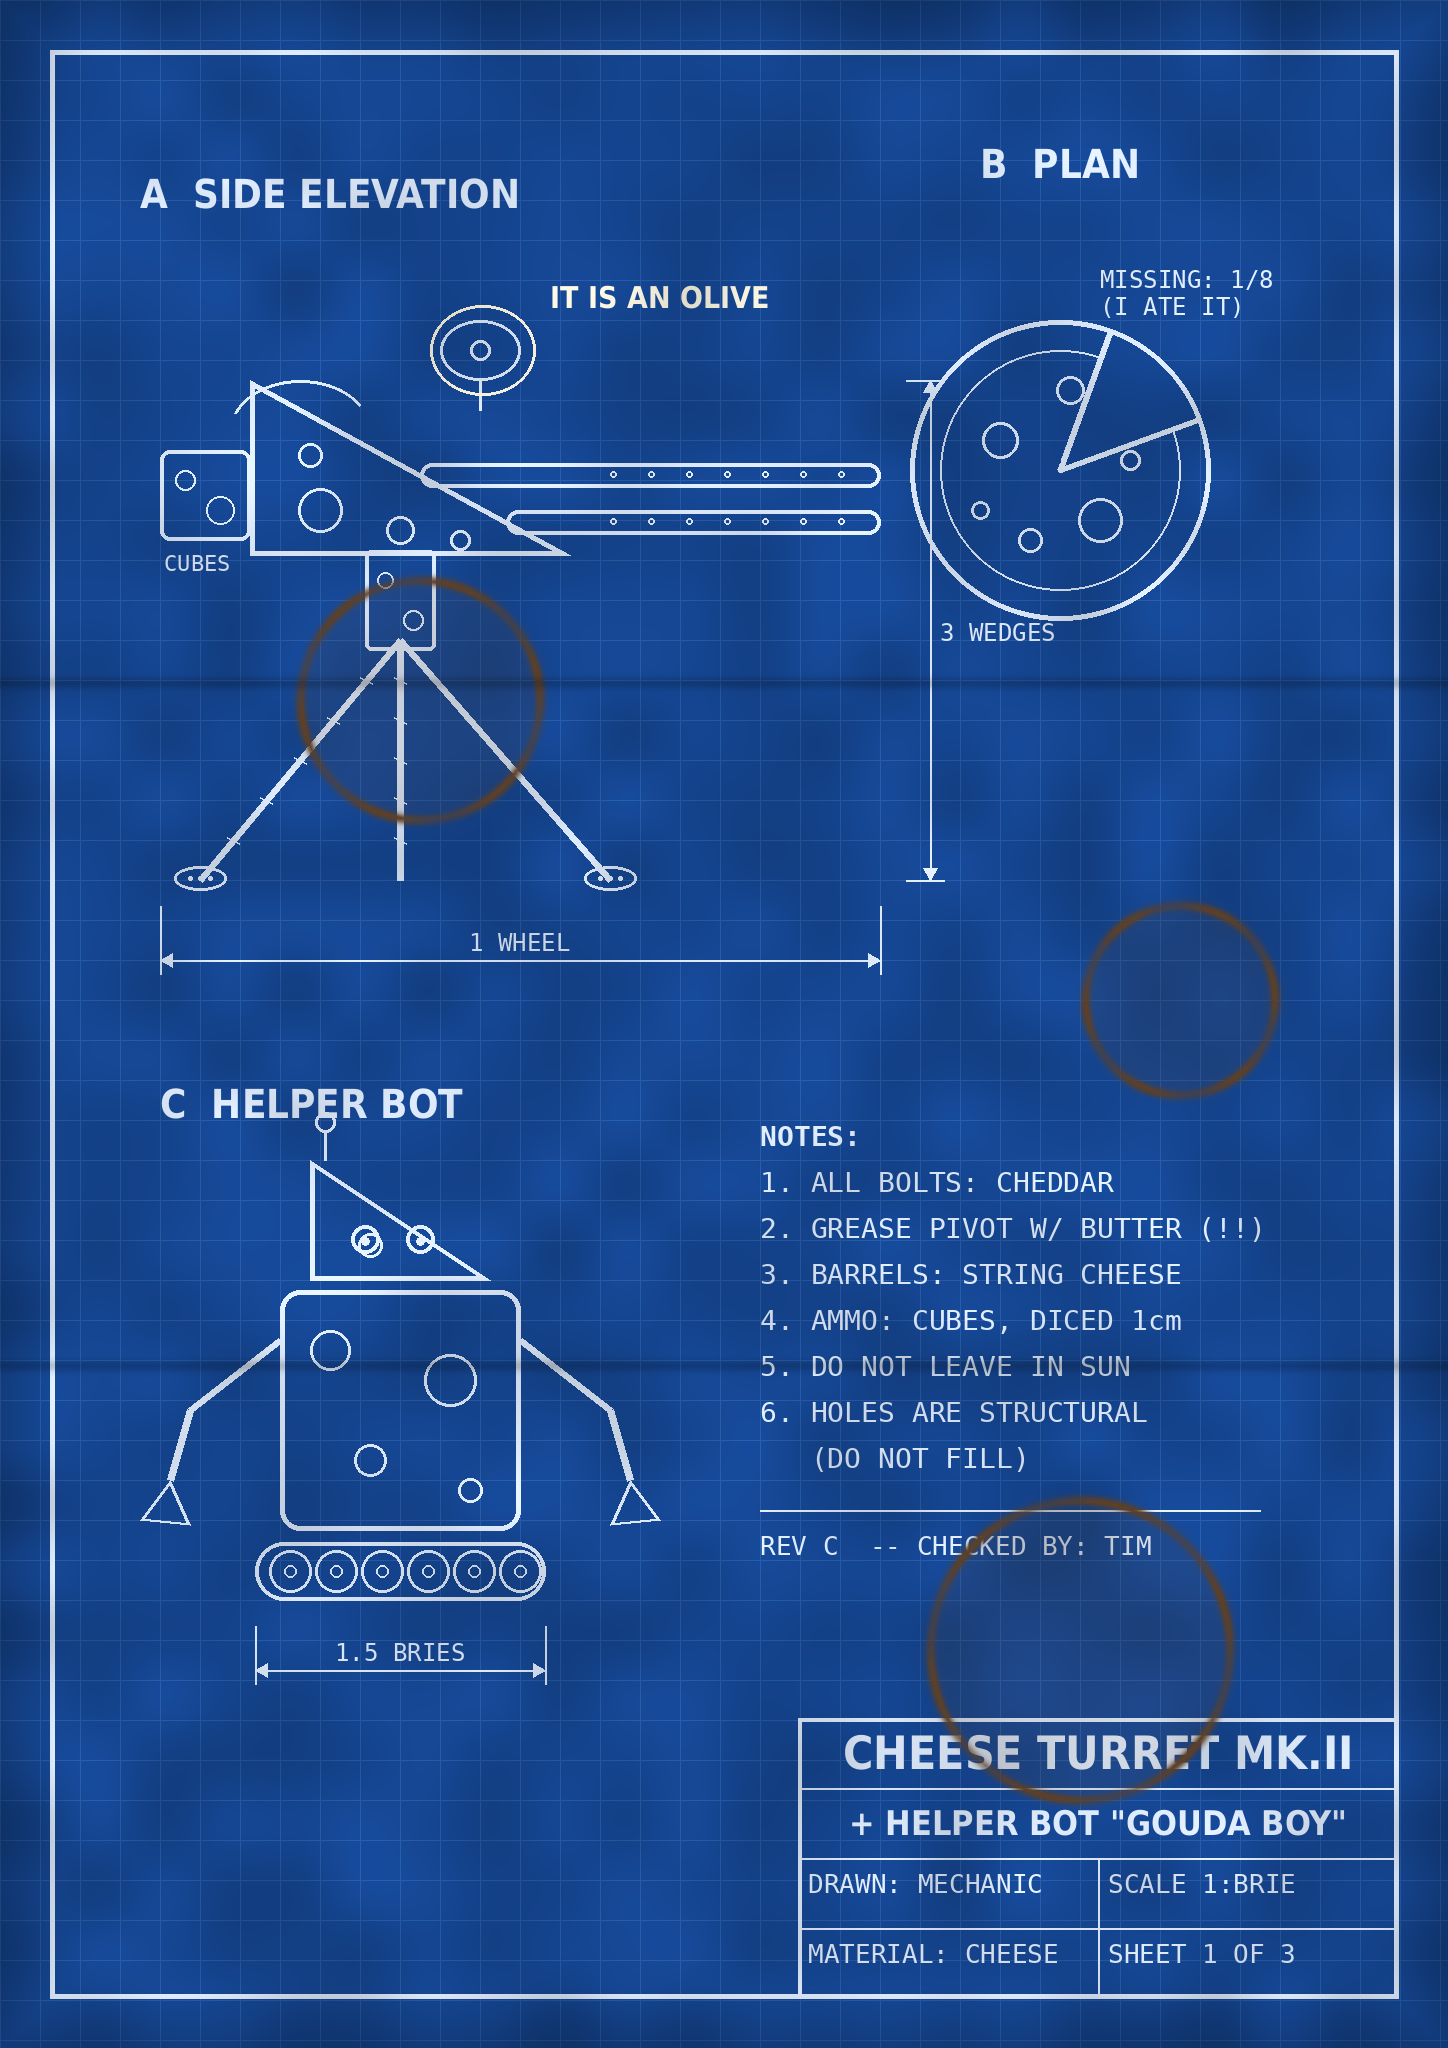
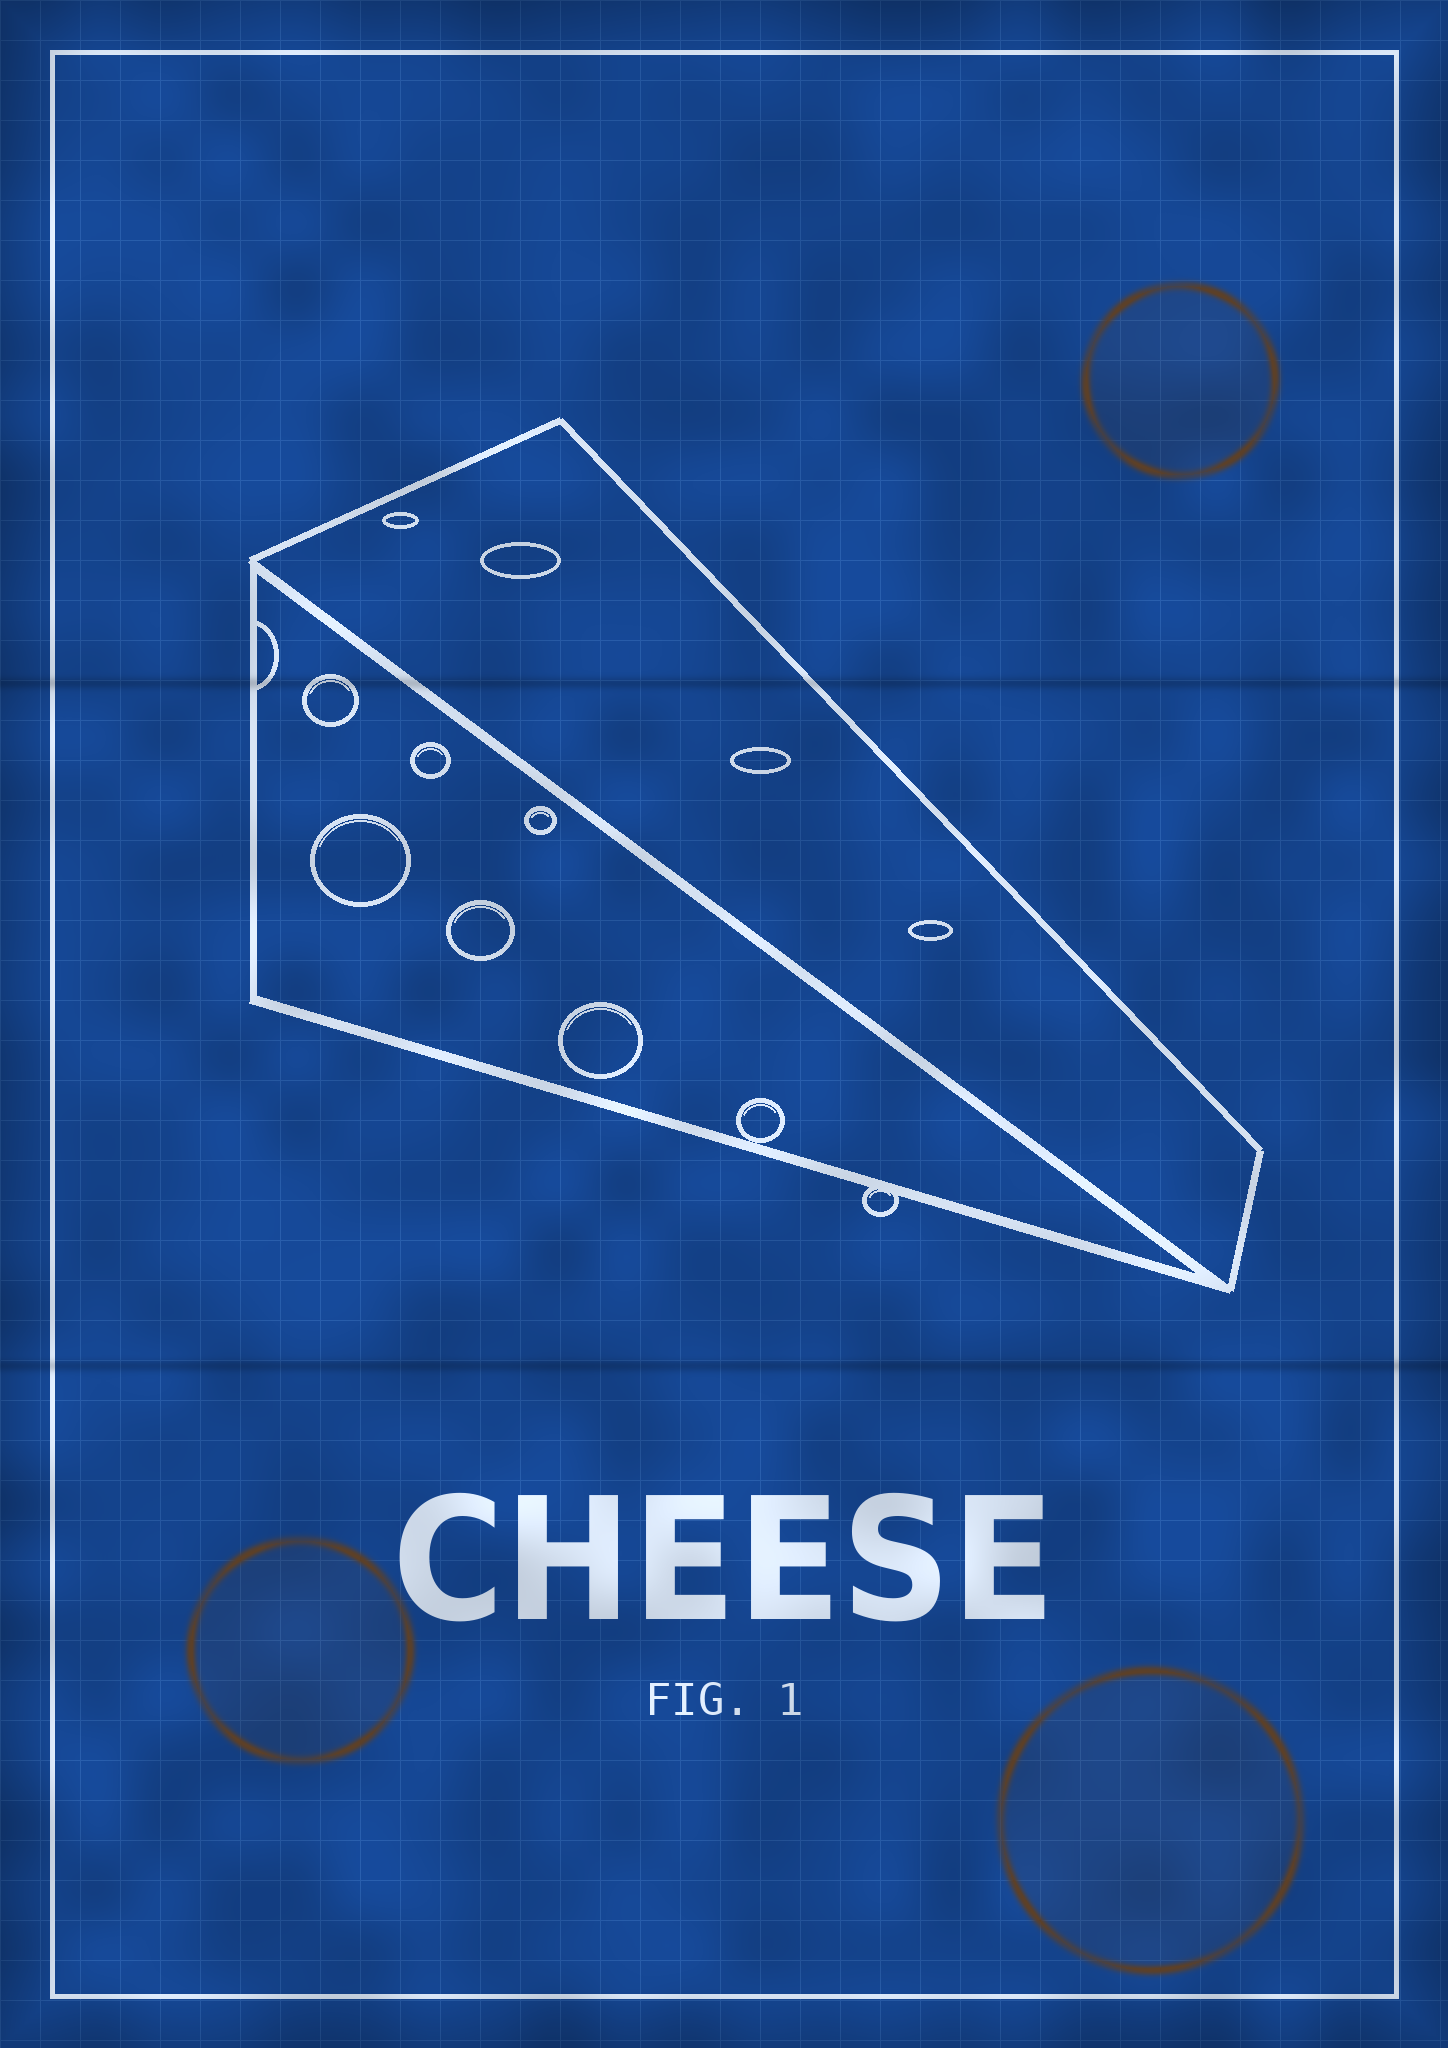
blueprint: it's just a drawing of cheese
Claude-Session: https://claude.ai/code/session_01YB5yxjfvq1qMjyRkuhq9NW

diff --git a/cheese-team/weapons/gen_wtex.py b/cheese-team/weapons/gen_wtex.py
@@ -181,6 +181,7 @@ def camo_tape():
 
 
 def blueprint():
+    """the Mechanic's 'blueprint': it's just a drawing of cheese"""
     W, H = 1448, 2048
     bg = (22, 72, 150); ln = (225, 238, 255)
     im = Image.new('RGB', (W, H), bg); d = ImageDraw.Draw(im)
@@ -189,130 +190,42 @@ def blueprint():
     for y in range(0, H, 40):
         d.line((0, y, W, y), fill=(40, 92, 168), width=1)
     d.rectangle((50, 50, W - 50, H - 50), outline=ln, width=5)
-    # ---- title block
-    d.rectangle((W - 650, H - 330, W - 50, H - 50), outline=ln, width=4)
-    for y in (H - 260, H - 190, H - 120):
-        d.line((W - 650, y, W - 50, y), fill=ln, width=2)
-    d.line((W - 350, H - 190, W - 350, H - 50), fill=ln, width=2)
-    ctext(d, (W - 350, H - 295), 'CHEESE TURRET MK.II', C(46), ln)
-    ctext(d, (W - 350, H - 225), '+ HELPER BOT "GOUDA BOY"', C(34), ln)
-    d.text((W - 640, H - 180), 'DRAWN: MECHANIC', font=M(26), fill=ln)
-    d.text((W - 340, H - 180), 'SCALE 1:BRIE', font=M(26), fill=ln)
-    d.text((W - 640, H - 110), 'MATERIAL: CHEESE', font=M(26), fill=ln)
-    d.text((W - 340, H - 110), 'SHEET 1 OF 3', font=M(26), fill=ln)
-
-    def dim(x0, y0, x1, y1, txt, off=30, vertical=False):
-        if vertical:
-            d.line((x0 + off, y0, x0 + off, y1), fill=ln, width=2)
-            for y in (y0, y1):
-                d.line((x0 + 6, y, x0 + off + 14, y), fill=ln, width=2)
-                d.polygon([(x0 + off, y), (x0 + off - 7, y + (12 if y == y0 else -12)), (x0 + off + 7, y + (12 if y == y0 else -12))], fill=ln)
-            d.text((x0 + off + 10, (y0 + y1) / 2 - 12), txt, font=M(24), fill=ln)
-        else:
-            d.line((x0, y0 + off, x1, y0 + off), fill=ln, width=2)
-            for x in (x0, x1):
-                d.line((x, y0 + 6, x, y0 + off + 14), fill=ln, width=2)
-                d.polygon([(x, y0 + off), (x + (12 if x == x0 else -12), y0 + off - 7), (x + (12 if x == x0 else -12), y0 + off + 7)], fill=ln)
-            ctext(d, ((x0 + x1) / 2, y0 + off - 18), txt, M(24), ln)
-
-    def wedge(x, y, w_, h_, holes=(), lw=5, flip=False):
-        """cheese wedge in side view: thick end left (or right if flip), sloping top, holes"""
-        if flip:
-            pts = [(x, y + h_), (x + w_, y + h_), (x + w_, y)]
-        else:
-            pts = [(x, y), (x, y + h_), (x + w_, y + h_)]
-        d.polygon(pts, outline=ln, width=lw)
-        for (hx, hy, r) in holes:
-            d.ellipse((x + hx - r, y + hy - r, x + hx + r, y + hy + r), outline=ln, width=max(2, lw - 2))
-
-    def block(x, y, w_, h_, holes=(), lw=5, r=10):
-        d.rounded_rectangle((x, y, x + w_, y + h_), radius=r, outline=ln, width=lw)
-        for (hx, hy, rr) in holes:
-            d.ellipse((x + hx - rr, y + hy - rr, x + hx + rr, y + hy + rr), outline=ln, width=max(2, lw - 2))
-
-    # ---- turret: side elevation -- a cheese wedge on a breadstick tripod, firing cheese sticks
-    ox, oy = 140, 260
-    d.text((ox, oy - 90), 'A  SIDE ELEVATION', font=C(40), fill=ln)
-    base_y = oy + 620
-    for x1 in (ox + 60, ox + 470, ox + 260):
-        d.line((ox + 260, oy + 380, x1, base_y), fill=ln, width=7)          # breadstick legs
-        for k in range(1, 6):                                                # breadstick scoring
-            t = k / 6
-            xa = ox + 260 + (x1 - ox - 260) * t; ya = oy + 380 + (base_y - oy - 380) * t
-            d.line((xa - 6, ya - 3, xa + 6, ya + 3), fill=ln, width=2)
-    for x in (ox + 60, ox + 470):
-        d.ellipse((x - 26, base_y - 14, x + 26, base_y + 10), outline=ln, width=3)   # cracker feet
-        for k in (-1, 0, 1):
-            d.ellipse((x + k * 10 - 2, base_y - 4, x + k * 10 + 2, base_y), fill=ln)
-    block(ox + 225, oy + 290, 70, 100, holes=((20, 30, 8), (48, 70, 10)), lw=4, r=6)         # cheese-cube pivot
-    wedge(ox + 110, oy + 120, 320, 175, holes=((70, 130, 22), (150, 150, 14), (210, 160, 10), (60, 75, 12)))   # body
-    for yb in (oy + 215, oy + 262):                                                     # cheese-stick barrels
-        xs = ox + 110 + 320 * (yb - oy - 120) / 175 - 4                                 # start at the wedge's slope
-        d.rounded_rectangle((xs, yb - 12, ox + 740, yb + 12), radius=12, outline=ln, width=4)
-        for k in range(7):
-            d.ellipse((ox + 470 + k * 38, yb - 4, ox + 476 + k * 38, yb + 2), outline=ln, width=2)
-    block(ox + 20, oy + 190, 90, 90, holes=((25, 30, 10), (60, 60, 14)), lw=4)          # ammo: cheese cube box
-    d.text((ox + 24, oy + 290), 'CUBES', font=M(22), fill=ln)
-    d.arc((ox + 90, oy + 120, ox + 230, oy + 220), 200, 330, fill=ln, width=3)
-    d.ellipse((ox + 300, oy + 60, ox + 380, oy + 120), outline=ln, width=3)              # sensor: an olive
-    d.ellipse((ox + 330, oy + 80, ox + 350, oy + 100), outline=ln, width=3)
-    d.line((ox + 340, oy + 120, ox + 340, oy + 150), fill=ln, width=3)
-    dim(ox + 20, oy + 640, ox + 740, oy + 640, '1 WHEEL', off=60)
-    dim(ox + 760, oy + 120, ox + 760, base_y, '3 WEDGES', off=30, vertical=True)
-    # ---- plan: a cheese wheel seen from above, one wedge missing
-    tx, ty = 1060, 470
-    d.text((tx - 80, ty - 330), 'B  PLAN', font=C(40), fill=ln)
-    d.ellipse((tx - 150, ty - 150, tx + 150, ty + 150), outline=ln, width=5)
-    d.ellipse((tx - 120, ty - 120, tx + 120, ty + 120), outline=ln, width=2)            # rind
-    d.pieslice((tx - 150, ty - 150, tx + 150, ty + 150), -70, -20, fill=bg, outline=ln, width=5)
-    for (hx, hy, r) in ((-60, -30, 18), (40, 50, 22), (-30, 70, 12), (70, -10, 10), (-80, 40, 9), (10, -80, 14)):
-        d.ellipse((tx + hx - r, ty + hy - r, tx + hx + r, ty + hy + r), outline=ln, width=3)
-    d.text((tx + 40, ty - 205), 'MISSING: 1/8', font=M(24), fill=ln)
-    d.text((tx + 40, ty - 178), '(I ATE IT)', font=M(24), fill=ln)
-    # ---- helper bot: a stack of cheese
-    rx, ry = 160, 1150
-    d.text((rx, ry - 70), 'C  HELPER BOT', font=C(40), fill=ln)
-    block(rx + 120, ry + 140, 240, 240, holes=((50, 60, 20), (170, 90, 26), (90, 170, 16), (190, 200, 12)), r=20)   # body: cheese block
-    wedge(rx + 150, ry + 10, 180, 120, holes=((60, 85, 12),), flip=False)                 # head: wedge
-    for ex in (rx + 205, rx + 260):
-        d.ellipse((ex - 14, ry + 75, ex + 14, ry + 103), outline=ln, width=4)            # googly eyes
-        d.ellipse((ex - 4, ry + 87, ex + 4, ry + 95), fill=ln)
-    d.line((rx + 165, ry + 10, rx + 165, ry - 18), fill=ln, width=3)
-    d.ellipse((rx + 155, ry - 38, rx + 175, ry - 18), outline=ln, width=3)
-    for sx, x0 in ((-1, rx + 120), (1, rx + 360)):                                         # string-cheese arms
-        d.line((x0, ry + 190, x0 + sx * 90, ry + 260), fill=ln, width=7)
-        d.line((x0 + sx * 90, ry + 260, x0 + sx * 110, ry + 330), fill=ln, width=7)
-        d.polygon([(x0 + sx * 110, ry + 330), (x0 + sx * 140, ry + 370), (x0 + sx * 90, ry + 375)], outline=ln, width=3)
-    for k in range(6):                                                                     # treads: cheese wheels
-        cx_ = rx + 130 + k * 46
-        d.ellipse((cx_ - 21, ry + 400, cx_ + 21, ry + 442), outline=ln, width=3)
-        d.ellipse((cx_ - 6, ry + 415, cx_ + 6, ry + 427), outline=ln, width=2)
-    d.rounded_rectangle((rx + 95, ry + 392, rx + 385, ry + 450), radius=29, outline=ln, width=4)
-    dim(rx + 95, ry + 470, rx + 385, ry + 470, '1.5 BRIES', off=50)
-    # notes
-    nx, ny = 760, 1120
-    notes = ['NOTES:', '1. ALL BOLTS: CHEDDAR', '2. GREASE PIVOT W/ BUTTER (!!)', '3. BARRELS: STRING CHEESE',
-             '4. AMMO: CUBES, DICED 1cm', '5. DO NOT LEAVE IN SUN', '6. HOLES ARE STRUCTURAL', '   (DO NOT FILL)']
-    for k, t in enumerate(notes):
-        d.text((nx, ny + k * 46), t, font=MB(28) if k == 0 else M(28), fill=ln)
-    d.line((nx, ny + 390, nx + 500, ny + 390), fill=ln, width=2)
-    d.text((nx, ny + 410), 'REV C  -- CHECKED BY: TIM', font=M(26), fill=ln)
-    d.ellipse((ox + 290, oy + 45, ox + 395, oy + 135), outline=(255, 250, 230), width=3)
-    d.text((ox + 410, oy + 20), 'IT IS AN OLIVE', font=C(30), fill=(255, 250, 230))
+    # one big cheese wedge, 3/4 view: thick back face on the left, sloping top down to the point on the right
+    A = (250, 1000)      # back-bottom-left
+    B = (250, 560)       # back-top-left
+    Cp = (560, 420)      # back-top-right (depth)
+    Dp = (560, 860)      # back-bottom-right (depth)
+    T = (1230, 1290)     # tip bottom (front)
+    Tb = (1260, 1150)    # tip bottom (depth)
+    lw = 7
+    d.polygon([A, B, T], outline=ln, width=lw)                      # front face (triangle)
+    d.line((B[0], B[1], Cp[0], Cp[1]), fill=ln, width=lw)           # top back edge
+    d.line((Cp[0], Cp[1], Tb[0], Tb[1]), fill=ln, width=lw)         # top far edge
+    d.line((Tb[0], Tb[1], T[0], T[1]), fill=ln, width=lw)
+    d.line((A[0], A[1], T[0], T[1]), fill=ln, width=lw)
+    d.line((B[0], B[1], T[0], T[1]), fill=ln, width=lw)
+    # holes on the front face (ellipses) + a few on the top
+    for (cx, cy, rx, ry) in ((360, 860, 50, 46), (480, 930, 34, 30), (330, 700, 28, 26), (600, 1040, 42, 38), (760, 1120, 24, 22),
+                             (430, 760, 20, 18), (880, 1200, 18, 16), (540, 820, 16, 14)):
+        d.ellipse((cx - rx, cy - ry, cx + rx, cy + ry), outline=ln, width=5)
+        d.arc((cx - rx + 6, cy - ry + 6, cx + rx - 6, cy + ry - 6), 200, 330, fill=ln, width=2)
+    for (cx, cy, rx, ry) in ((520, 560, 40, 18), (760, 760, 30, 13), (930, 930, 22, 10), (400, 520, 18, 8)):
+        d.ellipse((cx - rx, cy - ry, cx + rx, cy + ry), outline=ln, width=4)
+    # hole cut on the back edge
+    d.arc((222, 620, 278, 690), 270, 90, fill=ln, width=5)
+    # title
+    ctext(d, (W / 2, 1560), 'CHEESE', C(170), ln)
+    ctext(d, (W / 2, 1700), 'FIG. 1', M(44), ln)
     a = np.asarray(im).astype(float)
     rng = np.random.RandomState(7)
     yy, xx = np.mgrid[0:H, 0:W].astype(float)
-    # paper: diazo fade + blotchy
     n = np.asarray(Image.fromarray((rng.rand(H // 64, W // 64) * 255).astype(np.uint8)).resize((W, H), Image.BICUBIC)) / 255.0
     a *= (0.86 + 0.18 * n)[..., None]
-    # coffee rings
-    for (cx, cy, r) in ((1080, 1650, 150), (420, 700, 120), (1180, 1000, 95)):
+    for (cx, cy, r) in ((1150, 1820, 150), (300, 1650, 110), (1180, 380, 95)):
         dist = np.sqrt((xx - cx) ** 2 + (yy - cy) ** 2)
         ring = np.exp(-((dist - r) / 5.0) ** 2) * (0.55 + 0.45 * np.sin(np.arctan2(yy - cy, xx - cx) * 3 + cx) ** 2)
-        fill = (dist < r) * 0.12
-        m = np.clip(ring + fill, 0, 1)[..., None]
+        m = np.clip(ring + (dist < r) * 0.12, 0, 1)[..., None]
         a = a * (1 - m) + np.array([92, 64, 40]) * m
-    # folds / creases + edge darkening
     for y in (H / 3, 2 * H / 3):
         a *= (1 - 0.18 * np.exp(-((yy - y) / 6) ** 2))[..., None]
     e = np.minimum(np.minimum(xx, W - xx), np.minimum(yy, H - yy)) / 60.0
